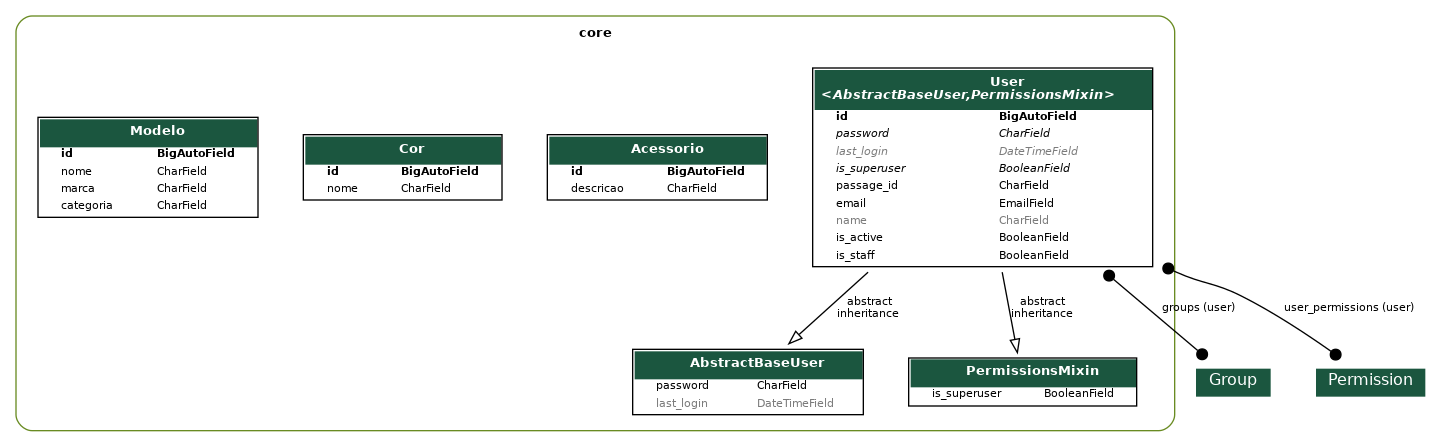
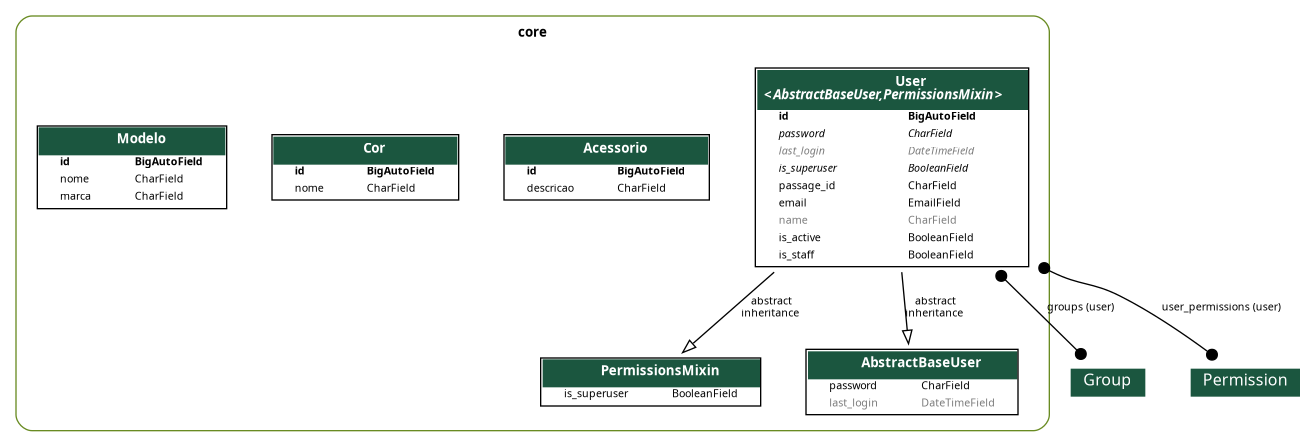
feat: api modelo concluida

diff --git a/core/models/modelo.py b/core/models/modelo.py
@@ -3,11 +3,10 @@ from django.db import models
 class Modelo(models.Model):
     nome = models.CharField(max_length=80)
     marca = models.CharField(max_length=80)
-    categoria = models.CharField(max_length=80)
 
 
 
     def __str__(self):
-        return f"{self.id} - {self.nome} - {self.marca}"
+        return f"{self.id} - {self.marca} - {self.nome.upper()}"
 
     

diff --git a/core/migrations/0009_remove_modelo_categoria.py b/core/migrations/0009_remove_modelo_categoria.py
@@ -1,0 +1,17 @@
+# Generated by Django 5.1.7 on 2025-05-01 21:36
+
+from django.db import migrations
+
+
+class Migration(migrations.Migration):
+
+    dependencies = [
+        ('core', '0008_modelo'),
+    ]
+
+    operations = [
+        migrations.RemoveField(
+            model_name='modelo',
+            name='categoria',
+        ),
+    ]

diff --git a/app/urls.py b/app/urls.py
@@ -17,6 +17,8 @@ router.register(r'usuarios', UserViewSet, basename='usuarios')
 router.register(r"acessorio", AcessorioViewSet, basename='acessorio')
 router.register(r"cor", CorViewSet, basename='cor')
 router.register(r"modelo", ModeloViewSet, basename='modelo')
+
+
 urlpatterns = [
     path('admin/', admin.site.urls),
     # OpenAPI 3

diff --git a/core/admin.py b/core/admin.py
@@ -54,3 +54,4 @@ class UserAdmin(BaseUserAdmin):
 admin.site.register(models.User, UserAdmin)
 admin.site.register(models.Acessorio)
 admin.site.register(models.Cor)
+admin.site.register(models.Modelo)
